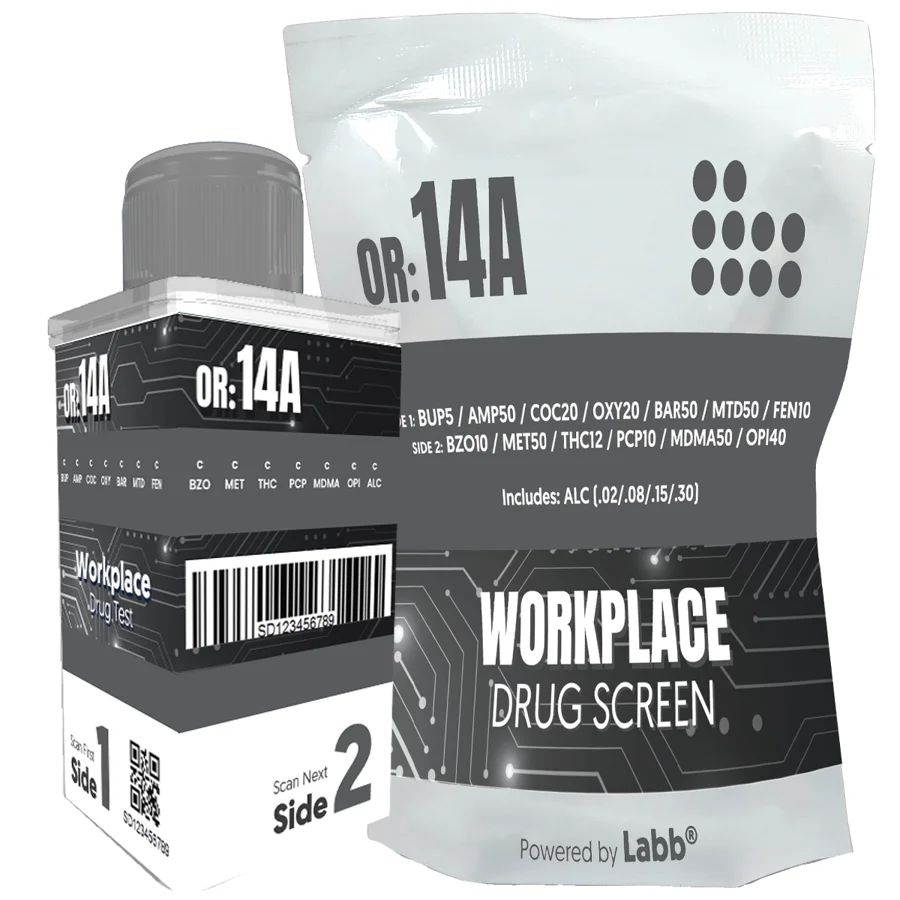
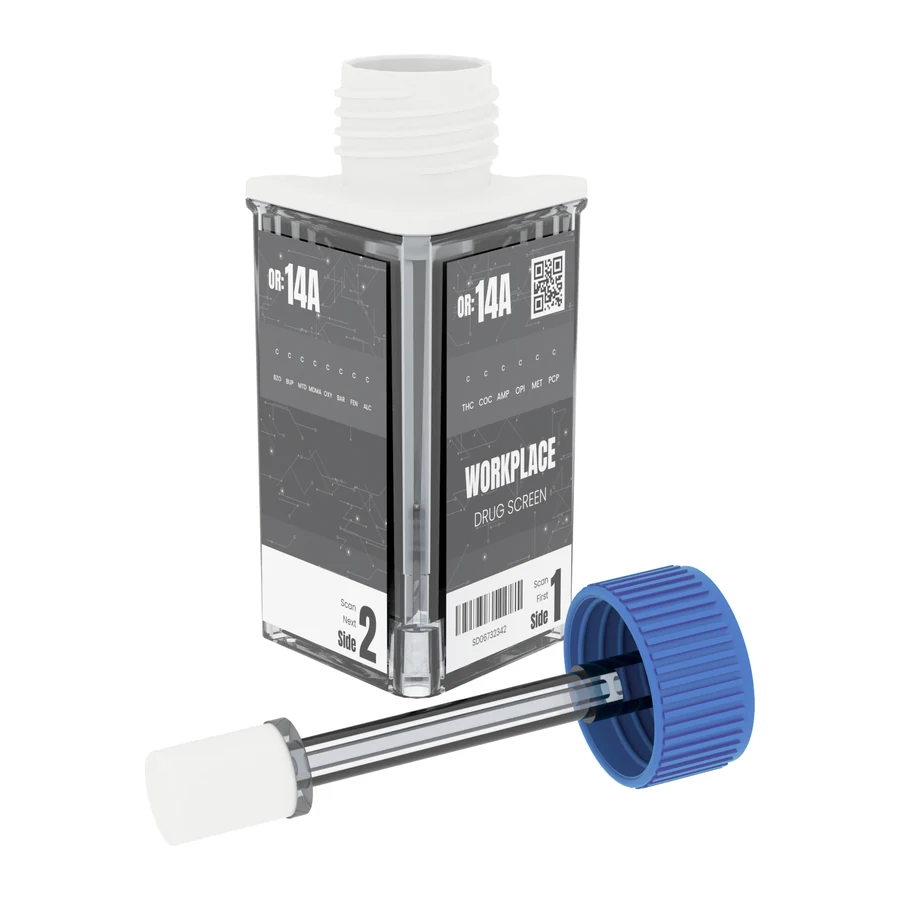
OR:14A: add product renders and kit gallery
Claude-Session: https://claude.ai/code/session_01KcM2dKoQ8f2RZtp5KgE56T

diff --git a/lib/kits.ts b/lib/kits.ts
@@ -154,6 +154,17 @@ export const kits: Kit[] = [
       { code: "ALC", name: "Alcohol", cutoff: "0.02% BAC" },
     ],
     image: "/kits/or-14a.webp",
+    gallery: [
+      { src: "/kits/or-14a/hero.webp", alt: "OR:14A oral fluid cup with the swab and cap beside it", w: 1000, h: 1000 },
+      { src: "/kits/or-14a/closed.webp", alt: "OR:14A cup closed, ready to read", w: 1000, h: 1000 },
+      { src: "/kits/or-14a/insert.webp", alt: "OR:14A swab going back into the collection chamber", w: 1000, h: 1000 },
+      { src: "/kits/or-14a/side-1.webp", alt: "OR:14A side 1 with six drugs and the barcode", w: 1000, h: 1000 },
+      { src: "/kits/or-14a/side-2.webp", alt: "OR:14A side 2 with seven drugs and alcohol", w: 1000, h: 1000 },
+      { src: "/kits/or-14a/pouch-front.webp", alt: "OR:14A sealed pouch, front", w: 1400, h: 553 },
+      { src: "/kits/or-14a/pouch-back.webp", alt: "OR:14A sealed pouch, back", w: 1400, h: 553 },
+      { src: "/kits/or-14a/box-closed.webp", alt: "OR:14A case of 25, closed", w: 1000, h: 1000 },
+      { src: "/kits/or-14a/box-open.webp", alt: "OR:14A case of 25, open, showing the pouches", w: 1000, h: 1000 },
+    ],
     dataSheet: drive("11IX959oT-UOp8m-AKBoLLgMGg5MJJnob"),
     goodFor: ["Post-accident", "Reasonable suspicion", "Alcohol plus drugs"],
     published: true,
